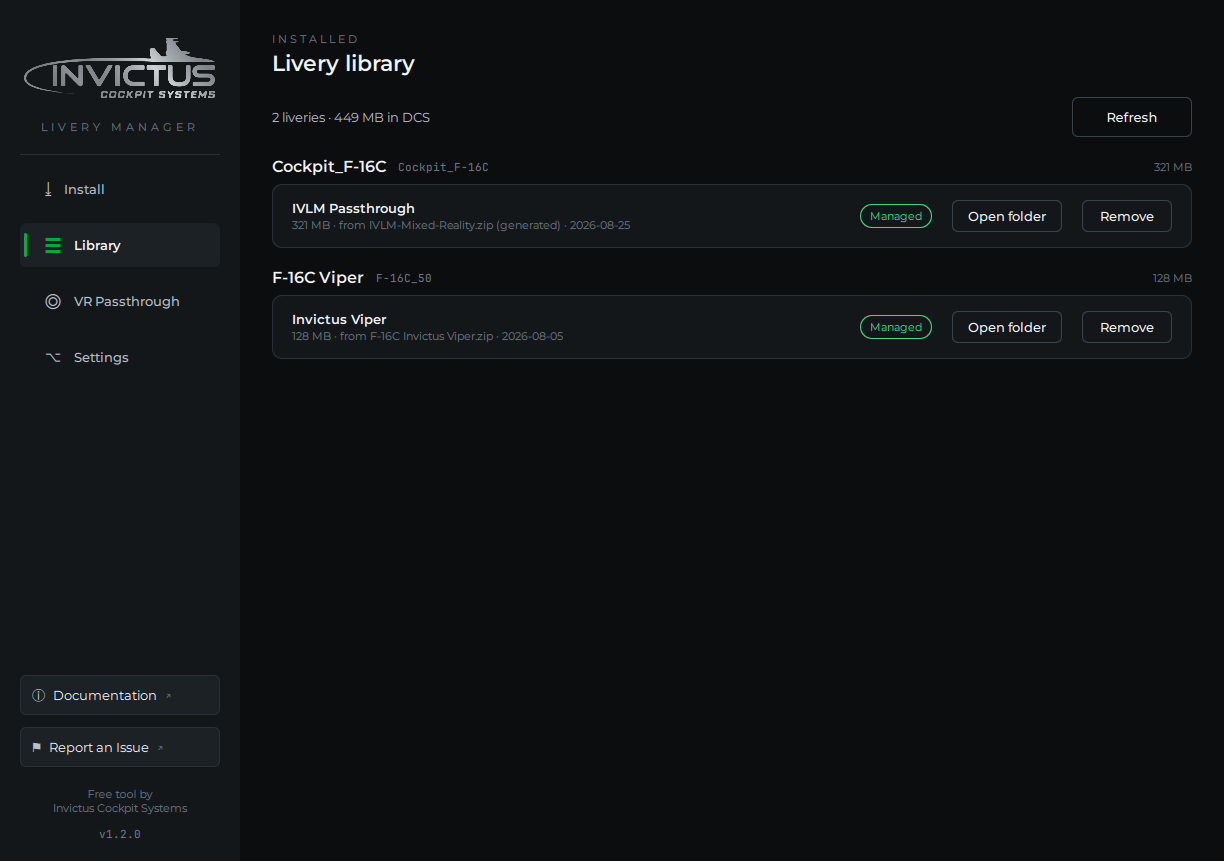
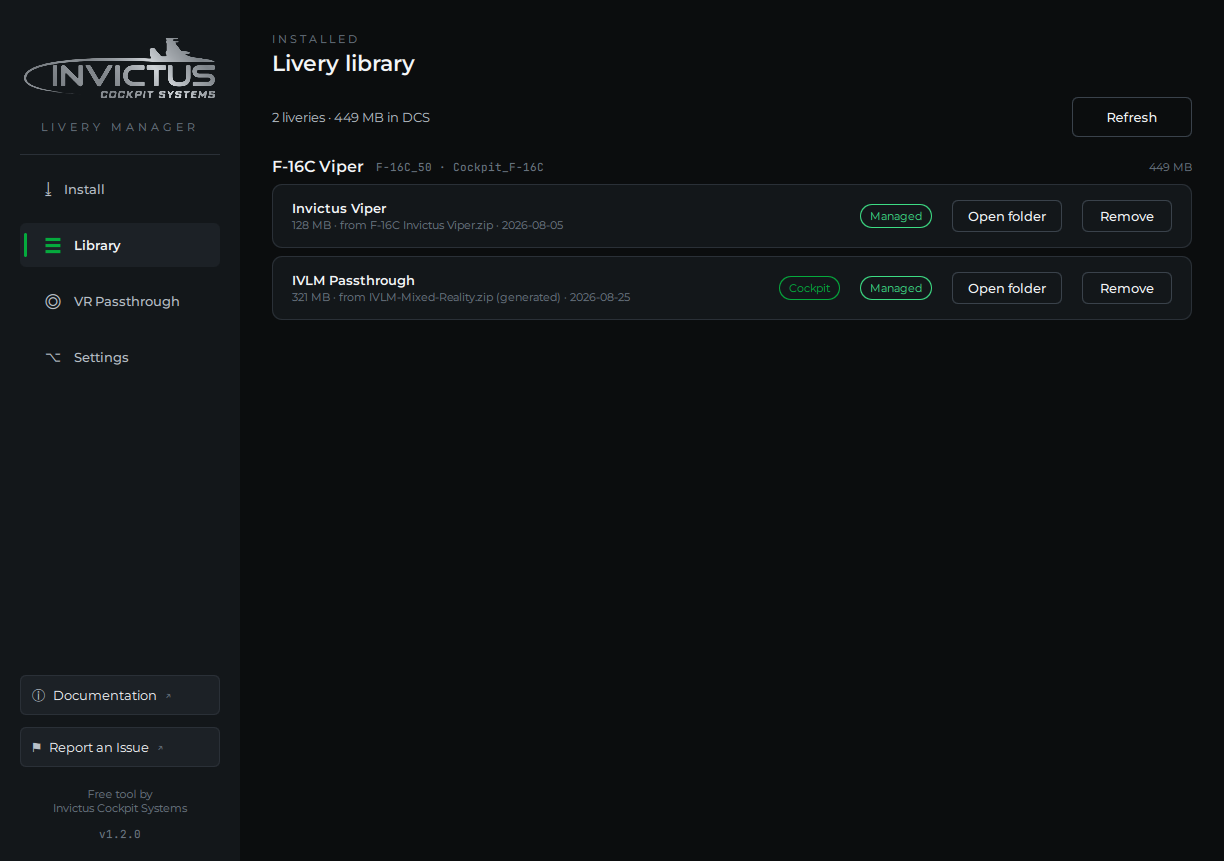
Library guide: cockpit liveries grouped with their aircraft, refreshed screenshot

diff --git a/docs/livery-manager/user-guide/library.md b/docs/livery-manager/user-guide/library.md
@@ -6,6 +6,11 @@ top.
 
 ![The Library page](images/library.png)
 
+An aircraft's cockpit liveries (like the VR Passthrough cockpit) are listed
+in the same group as its regular skins, marked with a green **Cockpit**
+badge; the small folder names next to the heading show where each kind
+lives on disk.
+
 ## Managed vs Manual
 
 Each row carries a provenance pill:
